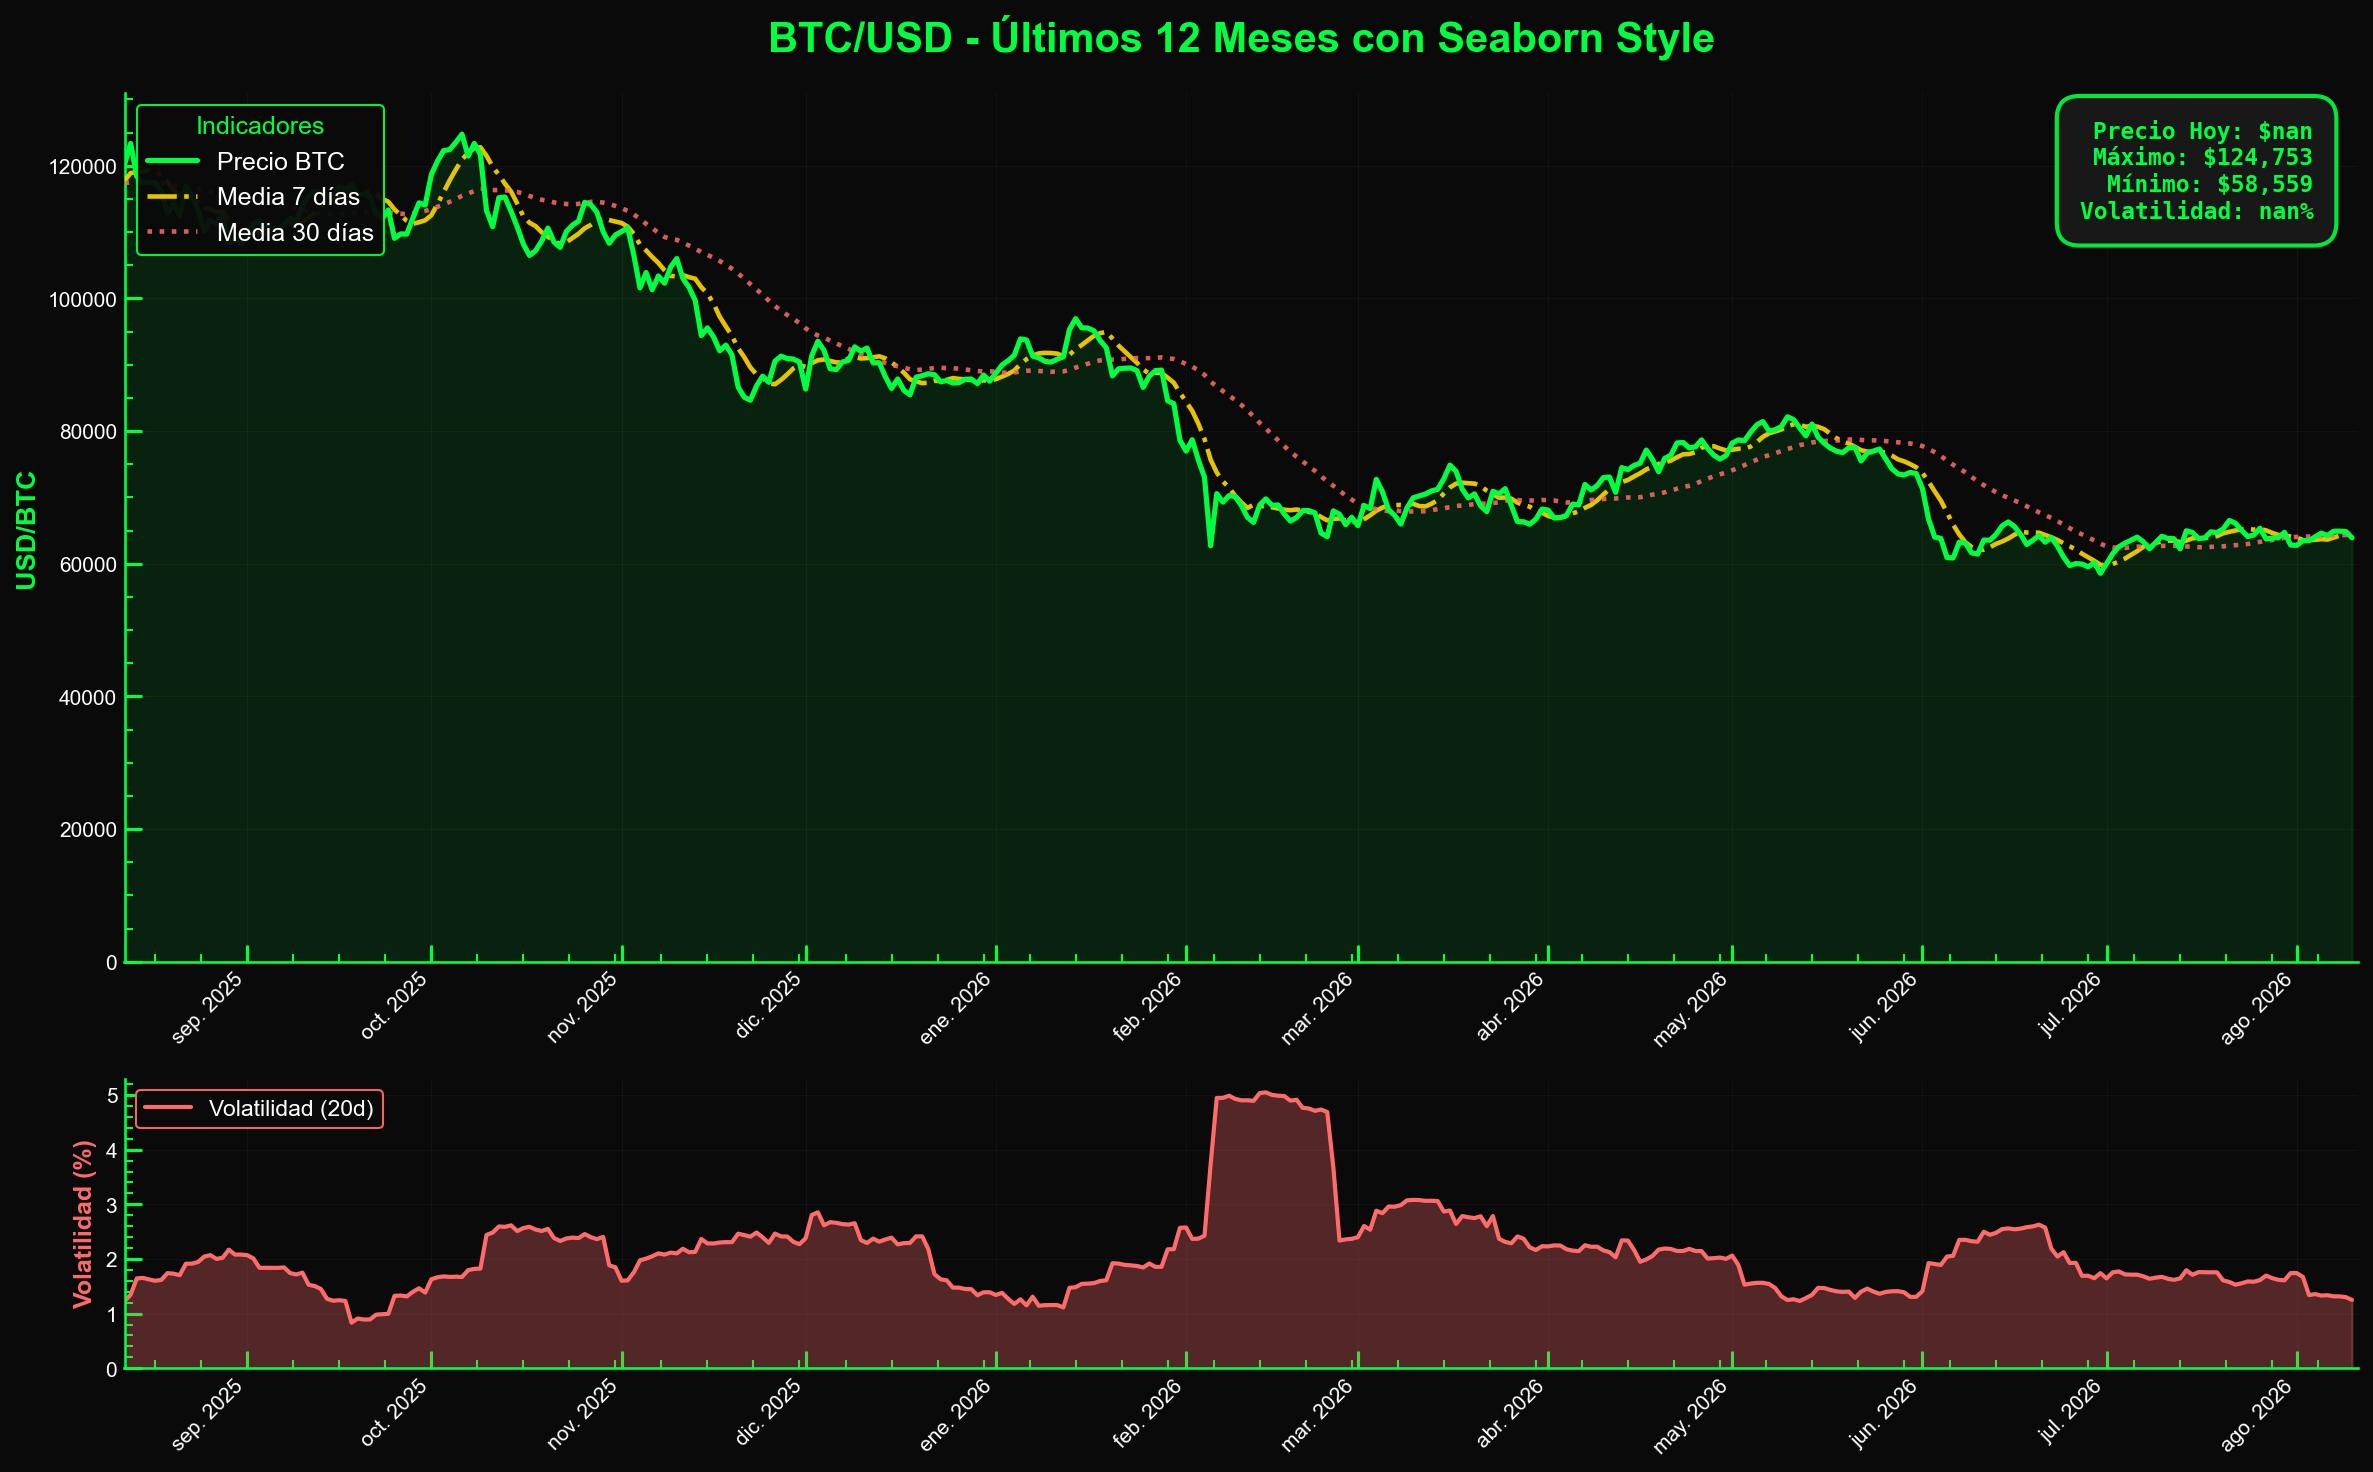
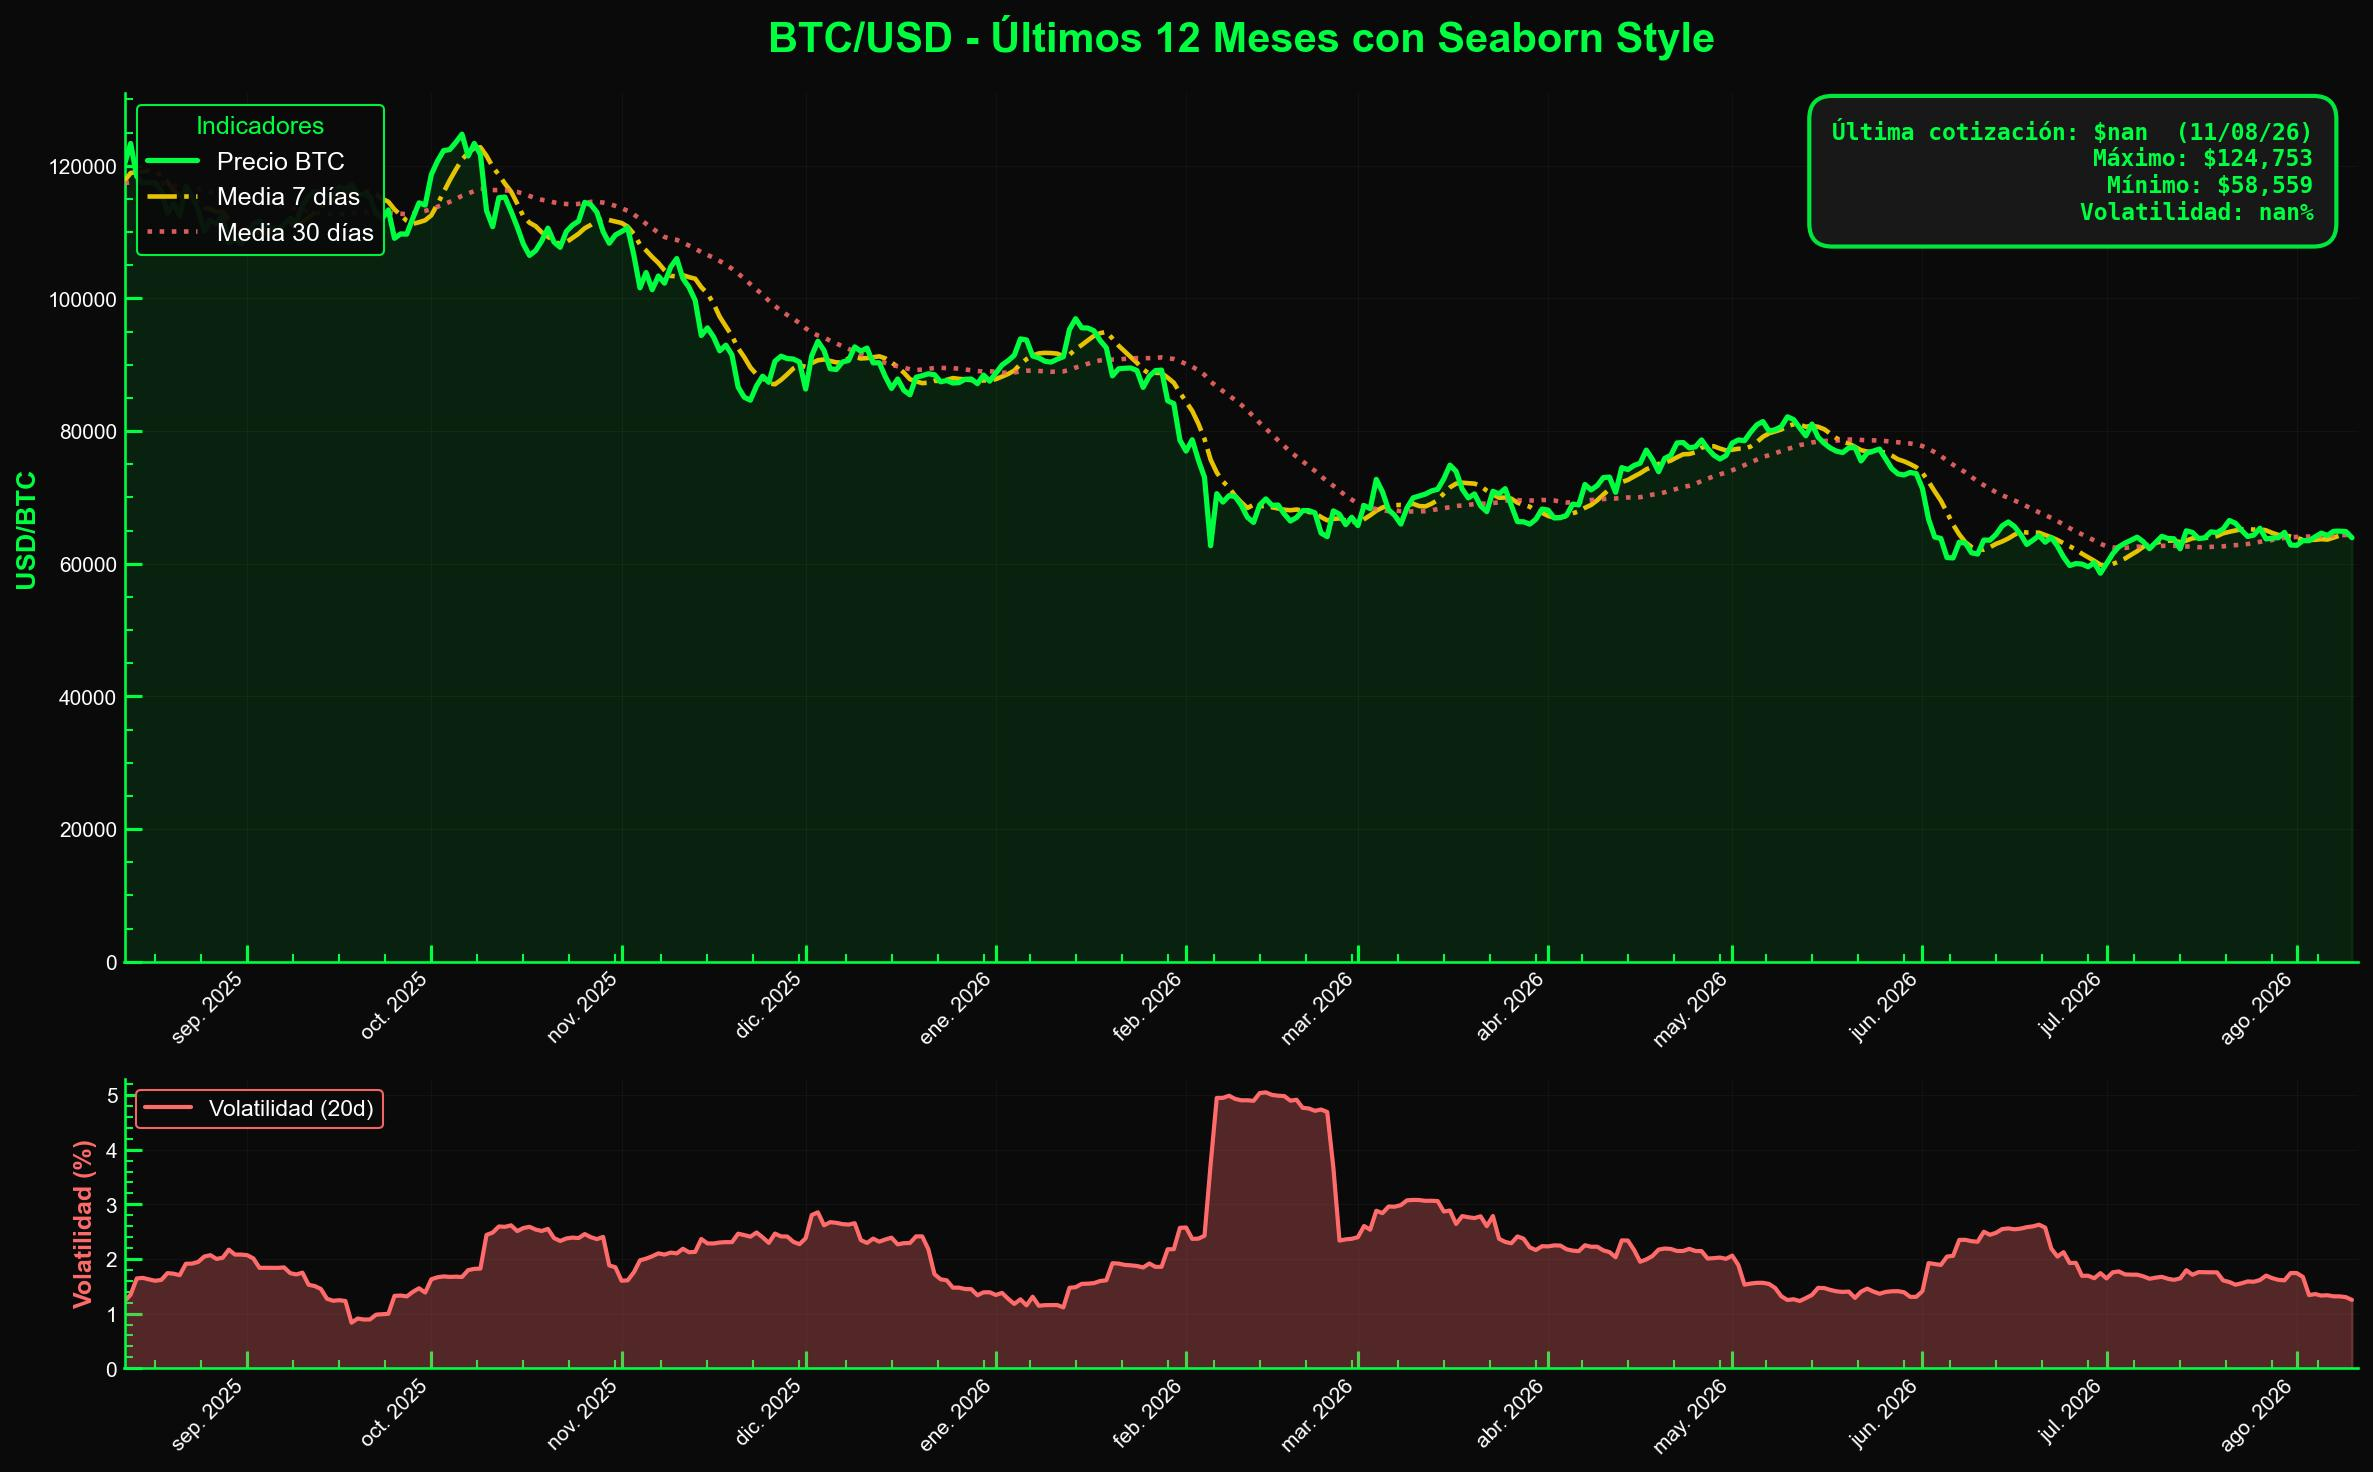
Ajustes de tipografia del cierre, tabla de inflacion y etiquetas del grafico
Plantilla del mail:
- Se saca la negrita de "Muchas gracias por leer".
- La linea del alias de MercadoPago pasa a 12px (1 mas que el resto) y se le
  achica el espacio de abajo, que quedaba grande.
- Las tres lineas del disclaimer quedan en el mismo tamano y sin cursivas.
  Solo el nombre y el mail van en negrita.
- Sombra en tablas y graficos. Gmail y Outlook descartan box-shadow, asi que
  el borde es lo que garantiza el recorte y la sombra queda como extra para
  los clientes que la soportan.
- La tabla de inflacion pasa de 8px a 12px. Tiene 4 columnas, no 14, asi que
  entra comoda; las otras dos se quedan en 8 o no entran en mobile.

Grafico de BTC: la etiqueta decia "Precio Hoy" pero el valor sale de
Close.iloc[-1], que es la ultima vela disponible y no necesariamente la de
hoy, porque yfinance cierra el dia en UTC y puede venir con retraso. Ahora
dice "Ultima cotizacion" y muestra la fecha del dato.

Grafico de riesgo pais: etiquetas mas grandes. El valor pasa de 7 a 9 (y de
10 a 12 en maximo y minimo). La variacion pasa de 7 a 7.5 y no mas: a 8.5 las
etiquetas de barras contiguas se tocaban, verificado renderizando.

Changed region(s): [[0.7484, 0.0625, 0.9979, 0.1875]]

diff --git a/templates/report_email.html b/templates/report_email.html
@@ -22,10 +22,21 @@
 
         /* TABLAS - scroll horizontal en mobile */
         .table-wrapper { width: 100%; overflow-x: auto; -webkit-overflow-scrolling: touch; }
-        table { border-collapse: collapse; width: 100%; min-width: 400px; margin: 12px 0; border: 1px solid #dcdde1; }
+        table { border-collapse: collapse; width: 100%; min-width: 400px; margin: 12px 0; border: 1px solid #dcdde1;
+                box-shadow: 0 2px 6px rgba(44,62,80,0.16); }
         table td, table th { font-size: 8px !important; padding: 4px 2px; text-align: center; border: 1px solid #dcdde1; }
         th { background-color: #2c3e50; color: #ffffff; text-transform: uppercase; }
         tr:nth-child(even) { background-color: #f8f9fa; }
+
+        /* La tabla de inflación tiene 4 columnas, no 14: entra cómoda con letra
+           más grande. Las otras dos se quedan en 8px o no entran en mobile. */
+        .tabla-inflacion table { min-width: 0; }
+        .tabla-inflacion table td, .tabla-inflacion table th { font-size: 12px !important; padding: 7px 6px; }
+
+        /* Sombra en los gráficos. Gmail y Outlook descartan box-shadow, así que
+           el borde es lo que garantiza el recorte; la sombra es un extra que se
+           ve en Apple Mail y clientes web modernos. */
+        .grafico { box-shadow: 0 2px 6px rgba(44,62,80,0.16); }
 
         /* HEADER */
         .header-box { background: #2c3e50; color: white; padding: 20px 15px; text-align: center; }
@@ -121,10 +132,10 @@
 
             <!-- GRÁFICOS -->
             <div style="text-align:center; width:100%; margin:20px 0;">
-              <img src='cid:image1' style="max-width:100%; height:auto; display:block; margin:0 auto 15px auto; border:1px solid #dcdde1; border-radius:4px;">
-              <img src='cid:image2' style="max-width:100%; height:auto; display:block; margin:0 auto 15px auto; border:1px solid #dcdde1; border-radius:4px;">
-              <img src='cid:image3' style="max-width:100%; height:auto; display:block; margin:0 auto 15px auto; border:1px solid #dcdde1; border-radius:4px;">
-              <img src='cid:image4' style="max-width:100%; height:auto; display:block; margin:0 auto 15px auto; border:1px solid #dcdde1; border-radius:4px;">
+              <img src='cid:image1' class="grafico" style="max-width:100%; height:auto; display:block; margin:0 auto 18px auto; border:1px solid #dcdde1; border-radius:4px; box-shadow:0 2px 6px rgba(44,62,80,0.16);">
+              <img src='cid:image2' class="grafico" style="max-width:100%; height:auto; display:block; margin:0 auto 18px auto; border:1px solid #dcdde1; border-radius:4px; box-shadow:0 2px 6px rgba(44,62,80,0.16);">
+              <img src='cid:image3' class="grafico" style="max-width:100%; height:auto; display:block; margin:0 auto 18px auto; border:1px solid #dcdde1; border-radius:4px; box-shadow:0 2px 6px rgba(44,62,80,0.16);">
+              <img src='cid:image4' class="grafico" style="max-width:100%; height:auto; display:block; margin:0 auto 18px auto; border:1px solid #dcdde1; border-radius:4px; box-shadow:0 2px 6px rgba(44,62,80,0.16);">
             </div>
 
             <!-- TABLA COTIZACIONES -->
@@ -141,7 +152,7 @@
             <!-- TABLA INFLACIÓN -->
             <p style="color:#2c3e50; margin-top:20px;">📈 <b><u>Termómetro de Inflación:</u></b><br>
             La siguiente tabla muestra las últimas 12 publicaciones del IPC. Tené en cuenta que la <b>inflación interanual es del {{ inflacion_interanual }}</b>:</p>
-            <div class="table-wrapper" style="width:100%; overflow-x:auto;">{{ tabla_inflacion | safe }}</div>
+            <div class="table-wrapper tabla-inflacion" style="width:100%; overflow-x:auto;">{{ tabla_inflacion | safe }}</div>
 
             <!-- FUENTES -->
             <div style="margin-top:30px; font-size:12px; color:#7f8c8d; border-top:1px solid #eee; padding-top:15px;">
@@ -158,7 +169,7 @@
 
             <!-- CIERRE -->
             <div style="margin-top:30px; border-top:1px solid #dcdde1; padding-top:20px;">
-              <p style="font-size:14px !important; color:#2c3e50;">🤓 <b>Muchas gracias por leer,</b><br>
+              <p style="font-size:14px !important; color:#2c3e50;">🤓 Muchas gracias por leer,<br>
               🤑 Ojalá esta información te sea de gran utilidad para tus decisiones.</p>
 
               <!-- Todo el cierre vive dentro de este recuadro.
@@ -173,14 +184,16 @@
                   <a href="https://linkedin.com/in/mauroemartinez/" style="text-decoration:none; color:#0077b5;"><b>LinkedIn</b></a>
                   | <a href="https://github.com/mauroemartinez/" style="text-decoration:none; color:#24292e;"><b>GitHub</b></a>
                 </p>
-                <p style="margin:0 0 14px 0; font-size:11px !important; color:#4d5a68;">
+                <p style="margin:0 0 8px 0; font-size:12px !important; color:#4d5a68;">
                   ☕ Si este reporte te ahorró tiempo y/o dinero, podés apoyar el proyecto al alias: <b style="color:#2c3e50;">mauroemartinezmp</b>
                 </p>
 
-                <div style="border-top:1px solid #dfe4ea; padding-top:14px; font-size:11px !important; color:#4d5a68; line-height:1.6;">
-                  🤖 <i>Este es un proceso de RPA desarrollado íntegramente en Python por <b style="color:#2c3e50;">Mauro E. Martinez</b>.</i><br>
-                  ⏱ <b>Performance:</b> El script procesó los datos y generó este envío en {{ '{:.2f}'.format(performance_segundos) }} segundos.<br>
-                  📧 <i>Consultas, desuscripciones o propuestas: <a href="mailto:martinezmauroezequiel@gmail.com" style="color:#2c3e50; text-decoration:underline;">martinezmauroezequiel@gmail.com</a></i>
+                <!-- Mismo tamaño, mismo estilo y sin cursivas en las tres líneas.
+                     Solo el nombre y el mail van en negrita. -->
+                <div style="border-top:1px solid #dfe4ea; padding-top:10px; font-size:11px !important; color:#4d5a68; line-height:1.6;">
+                  🤖 Este es un proceso de RPA desarrollado íntegramente en Python por <b style="color:#2c3e50;">Mauro E. Martinez</b>.<br>
+                  ⏱ Performance: el script procesó los datos y generó este envío en {{ '{:.2f}'.format(performance_segundos) }} segundos.<br>
+                  📧 Consultas, desuscripciones o propuestas: <a href="mailto:martinezmauroezequiel@gmail.com" style="color:#2c3e50; text-decoration:underline; font-weight:bold;">martinezmauroezequiel@gmail.com</a>
                 </div>
               </div>
             </div>
